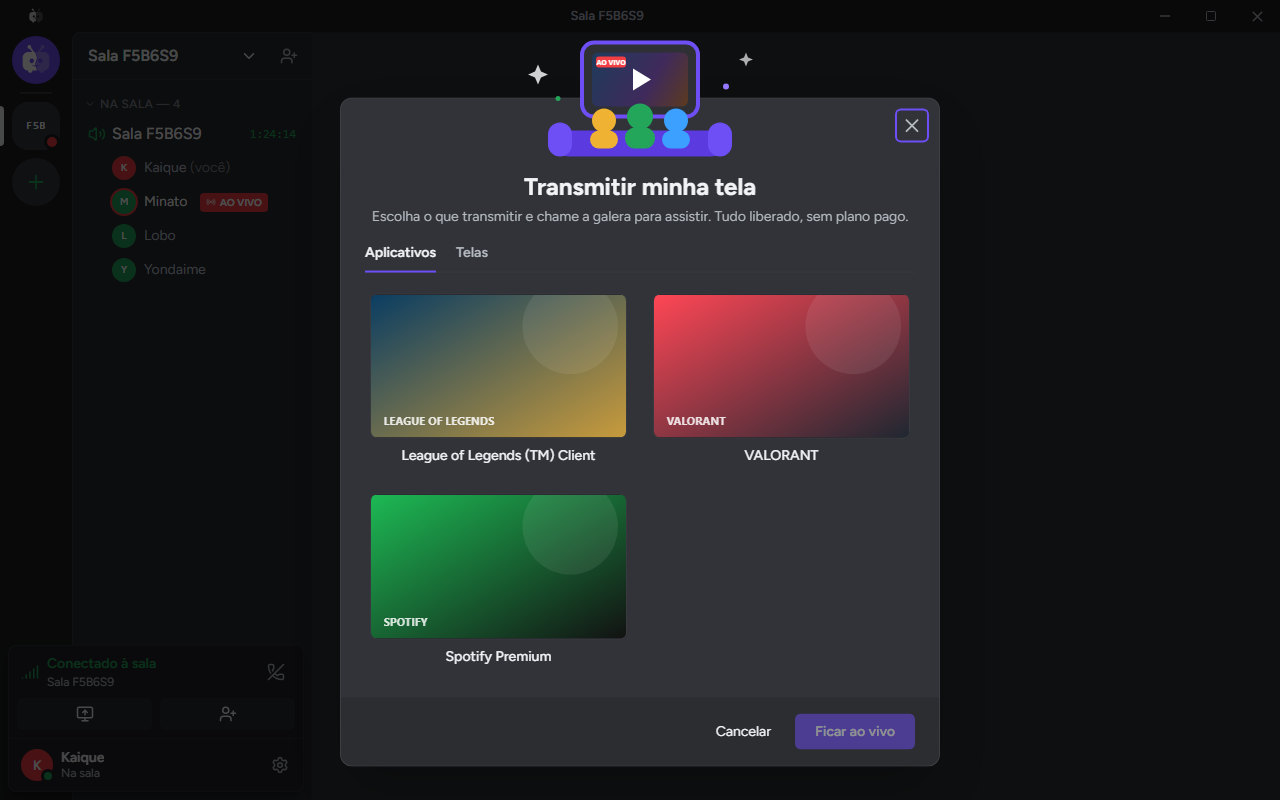
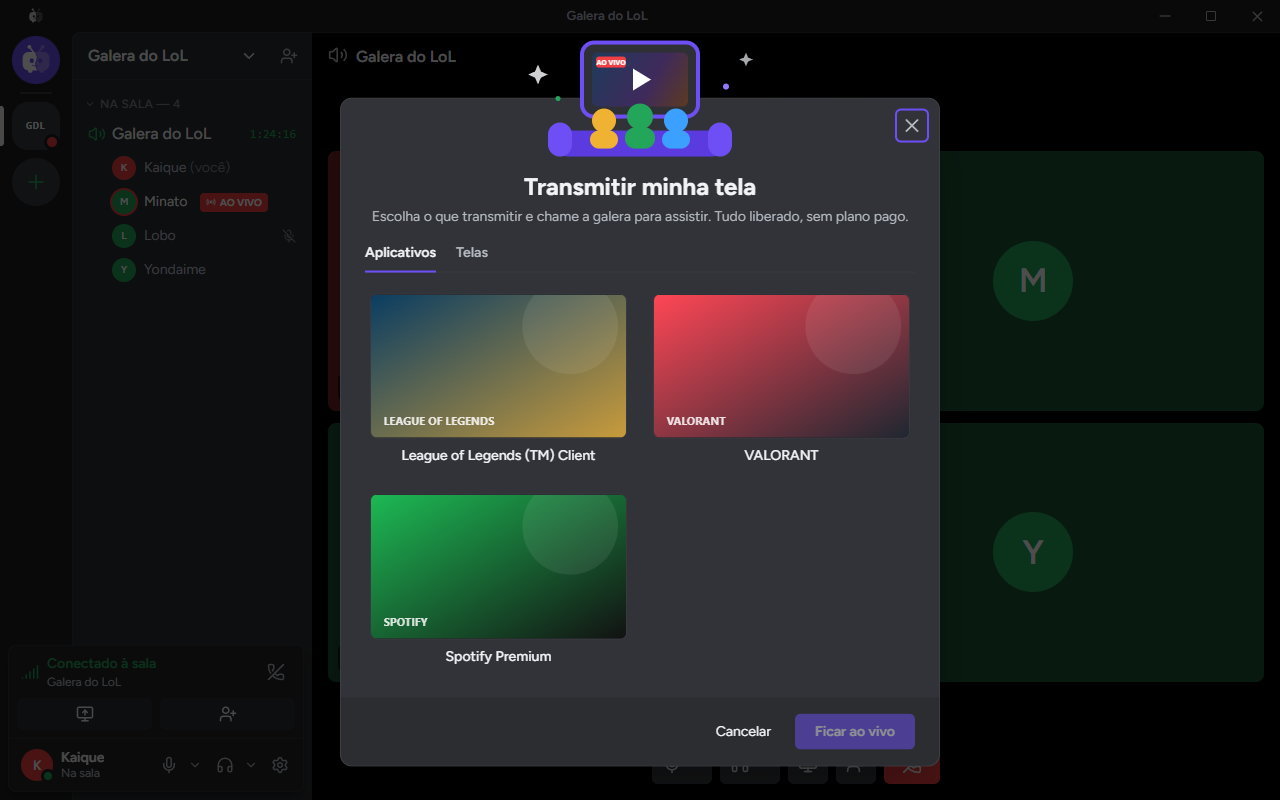
docs: README e site com as telas e os recursos da 0.3.0
Capturas novas da sala como canal de voz, da página de amigos e das configurações por categoria.

diff --git a/site/index.html b/site/index.html
@@ -256,11 +256,11 @@
 
       <main>
         <div class="hero">
-          <span class="pill"><b>AO VIVO</b> Versão 0.1.0 para Windows</span>
+          <span class="pill"><b>NOVO</b> Versão 0.3.0: voz e amigos</span>
           <h1>Compartilhe a tela do jogo com a galera da call</h1>
           <p class="lead">
-            Até 1440p60, com baixa latência e quase sem pesar no jogo. O vídeo vai direto de um PC para o outro, sem
-            servidor no meio, com o som do jogo e sem o som da call.
+            Até 1440p60, com baixa latência e quase sem pesar no jogo. O vídeo e a voz vão direto de um PC para o outro,
+            sem servidor no meio, com o som do jogo e sem o som da call.
           </p>
           <div class="actions">
             <a class="button" data-download href="https://github.com/Kaique292/squadview/releases/latest"
@@ -276,7 +276,7 @@
               src="tela-sala.png"
               width="1280"
               height="800"
-              alt="SquadView com uma sala aberta: quatro amigos, um deles ao vivo, e o botão para assistir"
+              alt="SquadView com uma sala aberta como canal de voz: quatro amigos, um deles ao vivo, e os controles da voz"
             />
           </div>
         </div>
@@ -303,6 +303,16 @@
               <p>Transmitindo uma janela, vai só o áudio daquele app. Sua call continua só sua.</p>
             </div>
             <div class="card">
+              <div class="icon">🎙</div>
+              <h3>Chat de voz na sala</h3>
+              <p>A sala é um canal de voz como o do Discord, com isolamento de ruído e volume por pessoa.</p>
+            </div>
+            <div class="card">
+              <div class="icon">👥</div>
+              <h3>Amigos</h3>
+              <p>Veja quem está online ou numa sala e peça para entrar. Qualquer pessoa da sala aceita.</p>
+            </div>
+            <div class="card">
               <div class="icon">🔗</div>
               <h3>Convite por link</h3>
               <p>Mande o link no Discord: quem tem o app entra na sala, quem não tem cai aqui para baixar.</p>
@@ -314,8 +324,8 @@
             </div>
             <div class="card">
               <div class="icon">🔄</div>
-              <h3>Sempre atualizado</h3>
-              <p>O app avisa quando sai versão nova e se atualiza com um clique, com pacotes assinados.</p>
+              <h3>Instala e atualiza sozinho</h3>
+              <p>Sem assistente: instala em segundos e já abre. As atualizações chegam assinadas, com um clique.</p>
             </div>
           </div>
         </section>
@@ -323,7 +333,9 @@
         <section id="como-usar">
           <h2>Como usar</h2>
           <ol class="steps">
-            <li><b>Baixe e instale</b> o SquadView. Não precisa ser administrador.</li>
+            <li>
+              <b>Baixe e abra</b> o instalador: em segundos o SquadView já está aberto. Não precisa ser administrador.
+            </li>
             <li><b>Crie uma sala</b> e clique em <b>Convidar pessoas</b>: o link vai para a área de transferência.</li>
             <li><b>Cole o link na call</b> do Discord. Seus amigos entram com um clique.</li>
             <li>

diff --git a/apps/desktop/src/dev/demo.ts b/apps/desktop/src/dev/demo.ts
@@ -1,8 +1,9 @@
 /**
  * Cenas de demonstração para as capturas do README (só no `yarn dev`, nunca no instalador):
- * `http://localhost:1420/#demo=sala`, `#demo=transmitir` ou `#demo=config`.
+ * `http://localhost:1420/#demo=sala`, `#demo=transmitir`, `#demo=config` ou `#demo=amigos`.
  * Preenche as stores com uma sala de exemplo, sem precisar do Rust.
  */
+import { useFriendsStore } from "../friends/friends-store";
 import { useAppearanceStore } from "../settings/appearance-store";
 import { useRoomStore } from "../room/room-store";
 import { type Source, sourceKey, useStreamStore } from "../stream/stream-store";
@@ -10,8 +11,23 @@ import { type Source, sourceKey, useStreamStore } from "../stream/stream-store";
 const MEMBERS = [
   { id: "eu", name: "Kaique", live: false },
   { id: "a", name: "Minato", live: true },
-  { id: "b", name: "Lobo", live: false },
+  { id: "b", name: "Lobo", live: false, muted: true },
   { id: "c", name: "Yondaime", live: false },
+];
+
+const online = (room: string | null, live = false) => ({ online: true, inRoom: room !== null, room, live });
+const FRIENDS = [
+  { id: "100000000000000001", name: "Minato", avatar: null, direct: true, presence: online("Galera do LoL", true) },
+  { id: "100000000000000002", name: "Lobo", avatar: null, direct: false, presence: online("Galera do LoL") },
+  { id: "100000000000000003", name: "Sakura", avatar: null, direct: false, presence: online(null) },
+  { id: "100000000000000004", name: "Itachi", avatar: null, direct: false, presence: online("Ranked da noite") },
+  {
+    id: "100000000000000005",
+    name: "Kakashi",
+    avatar: null,
+    direct: false,
+    presence: { online: false, inRoom: false, room: null, live: false },
+  },
 ];
 
 const SOURCES: Source[] = [
@@ -60,6 +76,7 @@ export function runDemo(scene: string) {
   useAppearanceStore.getState().setGlass(0);
   useRoomStore.setState({
     code: "F5B6S9",
+    roomName: "Galera do LoL",
     joinedAt: Date.now() - (1 * 3600 + 24 * 60 + 9) * 1000,
     members: MEMBERS,
   });
@@ -77,8 +94,21 @@ export function runDemo(scene: string) {
   Object.assign(window, {
     __TAURI_INTERNALS__: { invoke: async (cmd: string) => FAKE_COMMANDS[cmd] ?? null },
   });
+  if (scene === "amigos") {
+    useFriendsStore.setState({
+      status: "online",
+      open: true,
+      friends: FRIENDS,
+      incoming: [{ id: "100000000000000006", name: "Hinata", avatar: null }],
+      joinRequests: [{ id: "00000000000000aa", from: { id: "100000000000000007", name: "Naruto", avatar: null } }],
+    });
+  }
   // Espera a interface montar antes de abrir os modais.
   setTimeout(() => {
+    // Na sala, o nome e os controles só aparecem com o mouse em cima (como no Discord).
+    document
+      .querySelector('[aria-label="Canal de voz"]')
+      ?.dispatchEvent(new MouseEvent("mouseover", { bubbles: true, relatedTarget: document.body }));
     if (scene === "transmitir") click("Transmitir minha tela");
     if (scene === "config") click("Configurações");
   }, 300);

diff --git a/README.md b/README.md
@@ -19,7 +19,7 @@
 
 <p align="center">
   Compartilhe a tela com a galera da call em <b>1080p60</b>, com <b>baixa latência</b> e <b>quase sem pesar no jogo</b>.<br>
-  Sem servidor de mídia: <b>o vídeo vai direto de um PC para o outro</b>, com o som do jogo e sem o som da call.
+  Sem servidor de mídia: <b>o vídeo e a voz vão direto de um PC para o outro</b>, com o som do jogo e sem o som da call.
 </p>
 
 <p align="center">
@@ -35,20 +35,22 @@
 </p>
 
 > [!NOTE]
-> **Versão 0.1.0: o essencial já funciona.** Um amigo transmite e o resto da sala assiste dentro do app, direto de PC para PC. O repasse entre membros (a sala distribuindo o vídeo sozinha) chega na [Fase 3](docs/roadmap.md). Achou um problema? [Abra uma issue](https://github.com/Kaique292/squadview/issues).
+> **Versão 0.3.0: voz e amigos.** A sala virou um canal de voz como o do Discord, e agora dá para ver os amigos online e pedir para entrar na sala deles. Um amigo transmite e o resto assiste dentro do app, direto de PC para PC. O repasse entre membros (a sala distribuindo o vídeo sozinha) chega na [Fase 3](docs/roadmap.md). Achou um problema? [Abra uma issue](https://github.com/Kaique292/squadview/issues).
 
 ## ✨ O que ele faz
 
-**Já funciona (0.1.0)**
+**Já funciona (0.3.0)**
 
 - **Qualidade de jogo.** Até 1440p ou a resolução da fonte, a 15, 30 ou 60 fps, tudo liberado. Encode por hardware na placa de vídeo (NVIDIA e AMD), e a imagem não sai da GPU, então o jogo quase não sente.
 - **Direto de PC para PC.** O vídeo não passa por servidor. As conexões são cifradas (QUIC com TLS 1.3).
 - **Só o áudio do jogo.** Transmitindo uma janela, vai só o som daquele app; o som da call fica de fora.
-- **Assista dentro do app**, como no Discord: o vídeo aparece na janela, com tela cheia e estatísticas (fps, bitrate, latência e ping).
-- **Salas com código.** Crie uma sala e mande o **link de convite**: quem tem o app entra direto, quem não tem cai na página de download.
-- **Integração com o Discord.** Entre com a sua conta (nome e foto do Discord) e mostre no seu perfil que está numa sala, transmitindo ou assistindo. Se quiser, com o botão "Entrar na sala".
-- **Visual que você já conhece.** Interface na organização do Discord, com identidade própria e efeito de vidro ajustável.
-- **Sempre atualizado.** O app avisa quando sai versão nova e se atualiza com um clique, com pacotes assinados.
+- **Assista dentro do app**, como no Discord: o vídeo aparece na janela, com tela cheia, volume de até 200% e estatísticas (fps, bitrate, latência e ping).
+- **Chat de voz na sala.** A sala é um canal de voz: um quadro por pessoa, borda verde em quem fala, mudo e surdo, volume e silenciar por pessoa (só para você) e isolamento de voz contra ruído de teclado e ventilador. A voz também vai direto de PC para PC.
+- **Amigos.** Veja quem está online, numa sala ou transmitindo. Peça para entrar na sala de um amigo (qualquer pessoa da sala aceita), chame amigos para a sua e marque quem entra direto. Quem esteve numa sala com você aparece em Recentes, e de lá você manda o pedido.
+- **Salas com nome e código.** Dê um nome à sala e mande o **link de convite**: quem tem o app entra direto, quem não tem cai na página de download.
+- **Integração com o Discord.** Entre com a sua conta: seu nome e sua foto aparecem para toda a sala. Mostre no seu perfil do Discord que está numa sala, transmitindo ou assistindo, com o botão "Entrar na sala" se quiser.
+- **Visual que você já conhece.** Interface na organização do Discord, com identidade própria, configurações por categoria e efeito de vidro ajustável.
+- **Instala e atualiza como o Discord.** Sem assistente: o instalador termina em segundos e já abre o app. Quando sai versão nova, um botão verde aparece na barra de título, e o app se atualiza sozinho, com pacotes assinados.
 - **Registro de desempenho só no seu PC.** Pode ser desligado; um botão copia os arquivos para você mandar a quem for ajudar.
 
 **Em breve**
@@ -60,13 +62,17 @@
 ## 📸 Telas
 
 <p align="center">
-  <img src="docs/images/tela-sala.png" alt="Sala do SquadView: barra de salas, a sala como canal de voz com quatro membros, um deles ao vivo, e o botão para assistir" width="90%">
+  <img src="docs/images/tela-sala.png" alt="Sala do SquadView como canal de voz: um quadro por pessoa, um amigo ao vivo, um silenciado e os controles da voz embaixo" width="90%">
+</p>
+
+<p align="center">
+  <img src="docs/images/tela-amigos.png" alt="Página de amigos: quem está online, em que sala ou transmitindo, o botão Entrar e um pedido para entrar na sala" width="90%">
 </p>
 
 <p align="center">
   <img src="docs/images/tela-transmitir.png" alt="Modal Transmitir minha tela, com as janelas de jogos para escolher" width="45%">
   &nbsp;
-  <img src="docs/images/tela-config.png" alt="Configurações: conta do Discord, status no perfil e registro de desempenho" width="45%">
+  <img src="docs/images/tela-config.png" alt="Configurações por categoria, como as do Discord: Voz e vídeo com microfone, saída, volumes e isolamento de voz" width="45%">
 </p>
 
 ## 🧠 Como funciona
@@ -99,7 +105,7 @@ Detalhes técnicos em [docs/arquitetura.md](docs/arquitetura.md) e [docs/protoco
 ## ⬇ Instalação
 
 1. Baixe o instalador `SquadView_x.y.z_x64-setup.exe` na [última versão](https://github.com/Kaique292/squadview/releases/latest).
-2. Abra e siga os passos. Não precisa ser administrador.
+2. Abra o instalador: ele instala em poucos segundos, sem perguntas, e já abre o SquadView. Não precisa ser administrador. (Quer escolher a pasta? Rode com `/WIZARD`.)
    - Se o Windows mostrar **"O Windows protegeu o computador"**, clique em **Mais informações → Executar assim mesmo**. O aviso aparece porque o instalador ainda não tem certificado de assinatura do Windows (que é pago); as atualizações são assinadas pelo projeto.
 3. Crie uma sala, clique em **Convidar pessoas** (copia o link) e mande para a galera. Depois é só **Transmitir minha tela**.
 
@@ -132,7 +138,7 @@ Funciona. O app usa o encoder de hardware da placa pelo Media Foundation do Wind
 <details>
 <summary><b>Meus amigos precisam de conta em algum lugar?</b></summary>
 
-Não. É só instalar e entrar pelo link ou pelo código da sala. Entrar com o Discord é opcional e serve só para mostrar seu nome e sua foto.
+Não. É só instalar e entrar pelo link ou pelo código da sala. Entrar com o Discord é opcional: serve para mostrar seu nome e sua foto e para usar os amigos (ver quem está online e pedir para entrar na sala deles). O SquadView só lê seu perfil público do Discord, nunca suas mensagens, servidores ou amigos de lá.
 </details>
 
 <details>
@@ -195,7 +201,7 @@ As miniaturas das janelas usam o crate `jpeg-encoder`: _this software is based i
 
 There is **no media server**: video goes directly between PCs over QUIC, with UDP hole punching. The plan (Phase 3) is for the room itself to distribute the video: members with spare upload relay already-encoded packets, and members on weak connections get a 720p layer. A tiny free signaling service (Cloudflare Worker) only helps peers find each other; no video goes through it.
 
-- **Status:** version 0.1.0. One friend streams and the rest of the room watches inside the app, directly PC to PC (NVIDIA and AMD), with Discord login, invite links and Rich Presence. Relaying through the room (mesh) is Phase 3. See the [roadmap](docs/roadmap.md).
+- **Status:** version 0.3.0. One friend streams and the rest of the room watches inside the app, directly PC to PC (NVIDIA and AMD). The room is a Discord-like voice channel (peer-to-peer Opus voice with noise suppression), and there are friends with presence and "ask to join" requests that anyone in the room can approve. Discord login, invite links, Rich Presence and a silent Discord-style installer. Relaying through the room (mesh) is Phase 3. See the [roadmap](docs/roadmap.md).
 - **Stack:** Rust core, Tauri v2, React 19 + Tailwind v4, QUIC (quinn) peer-to-peer mesh, Cloudflare Worker for signaling.
 - **Contributing:** PRs target the `dev` branch and use [Conventional Commits](https://www.conventionalcommits.org/). Docs are in Portuguese; issues and PRs in English are welcome too.
 - **Support:** [Buy Me a Coffee](https://buymeacoffee.com/kaiqueamaral).

diff --git a/docs/desenvolvimento.md b/docs/desenvolvimento.md
@@ -75,7 +75,7 @@ docs/                 documentação, ADRs, design e imagens
 
 ## Capturas do README e imagem de prévia do site
 
-- **Capturas das telas:** com o `yarn dev` rodando, abra `http://localhost:1420/#demo=sala` (ou `#demo=transmitir`, `#demo=config`). O modo de demonstração (`apps/desktop/src/dev/demo.ts`, só no dev) preenche a interface com uma sala de exemplo. Para gerar o PNG sem abrir janela:
+- **Capturas das telas:** com o `yarn dev` rodando, abra `http://localhost:1420/#demo=sala` (ou `#demo=transmitir`, `#demo=config`, `#demo=amigos`). O modo de demonstração (`apps/desktop/src/dev/demo.ts`, só no dev) preenche a interface com uma sala de exemplo. Para gerar o PNG sem abrir janela:
 
   ```powershell
   & "C:\Program Files (x86)\Microsoft\Edge\Application\msedge.exe" --headless=new --hide-scrollbars --window-size=1280,800 --virtual-time-budget=6000 --screenshot=docs\images\tela-sala.png "http://localhost:1420/#demo=sala"
